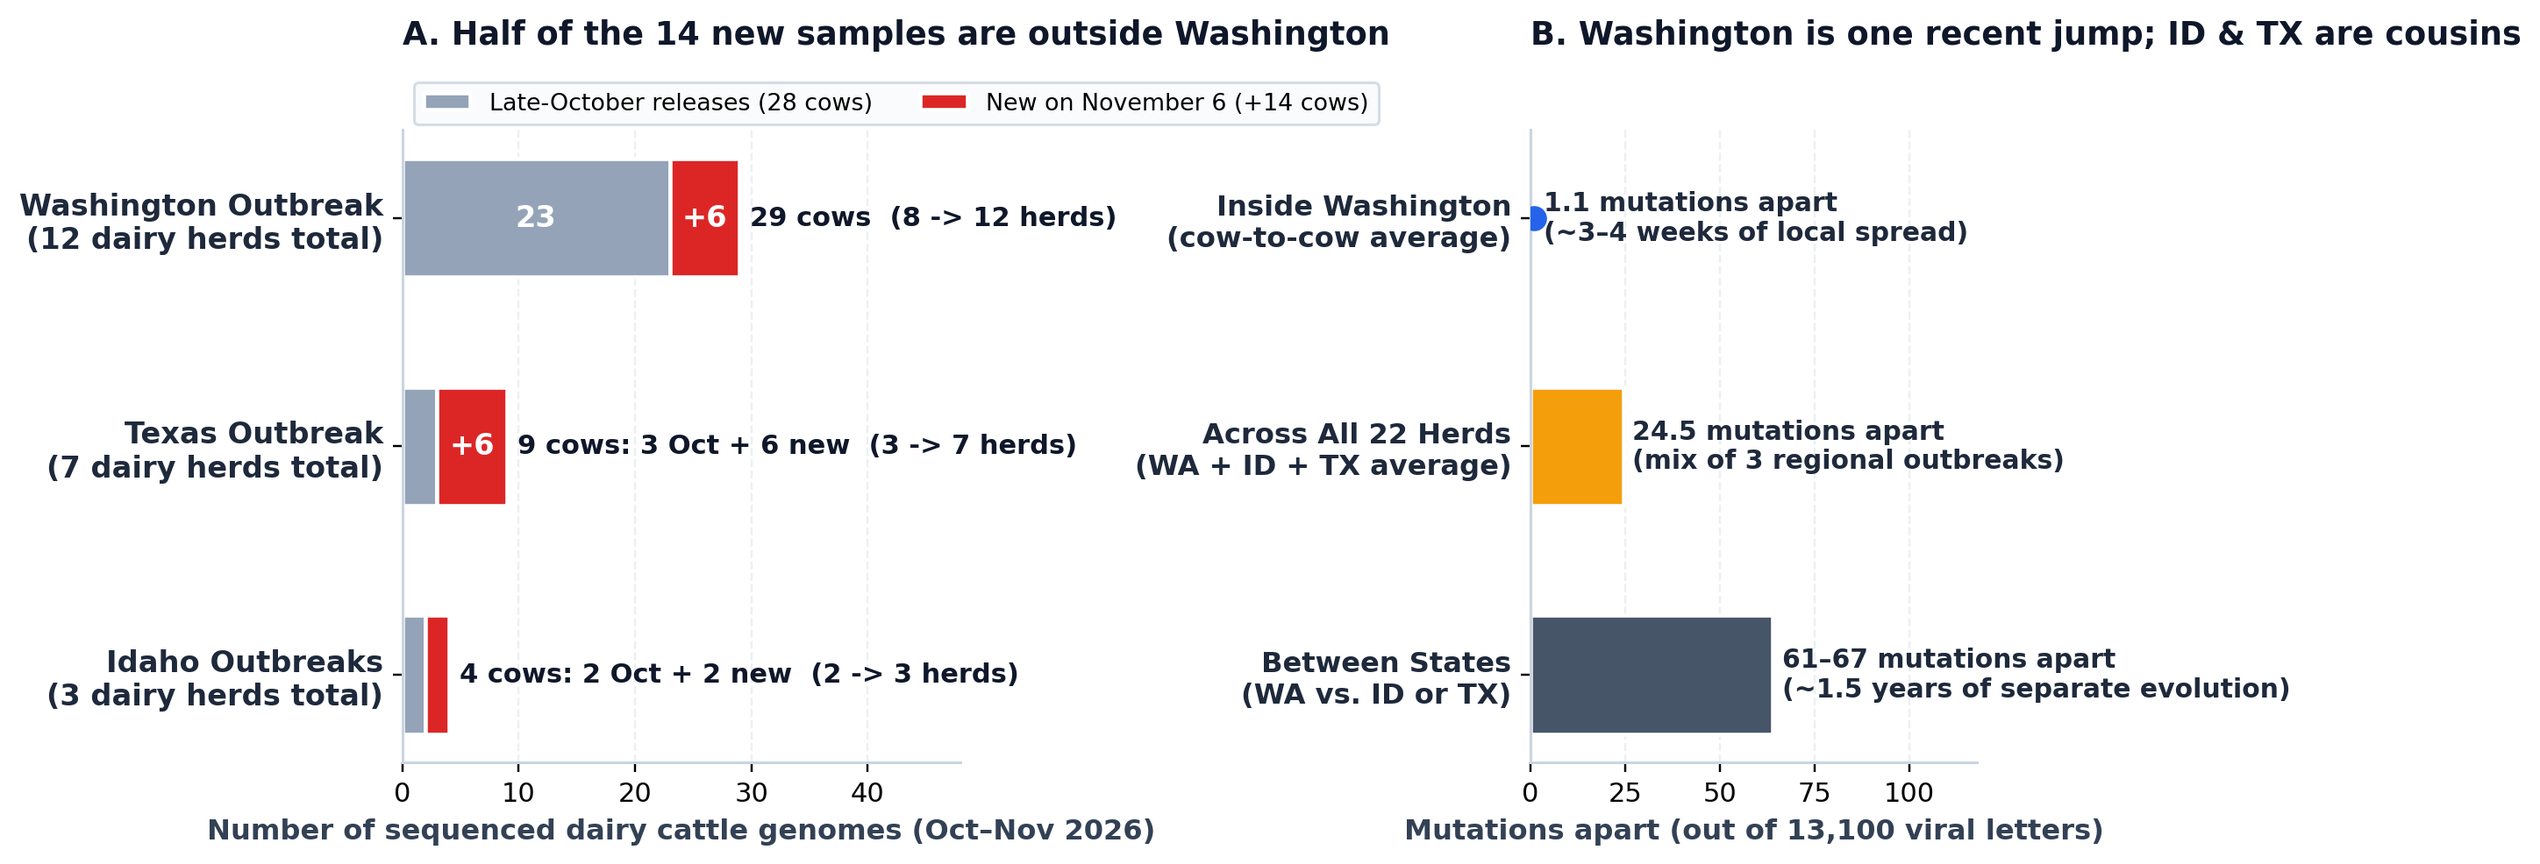
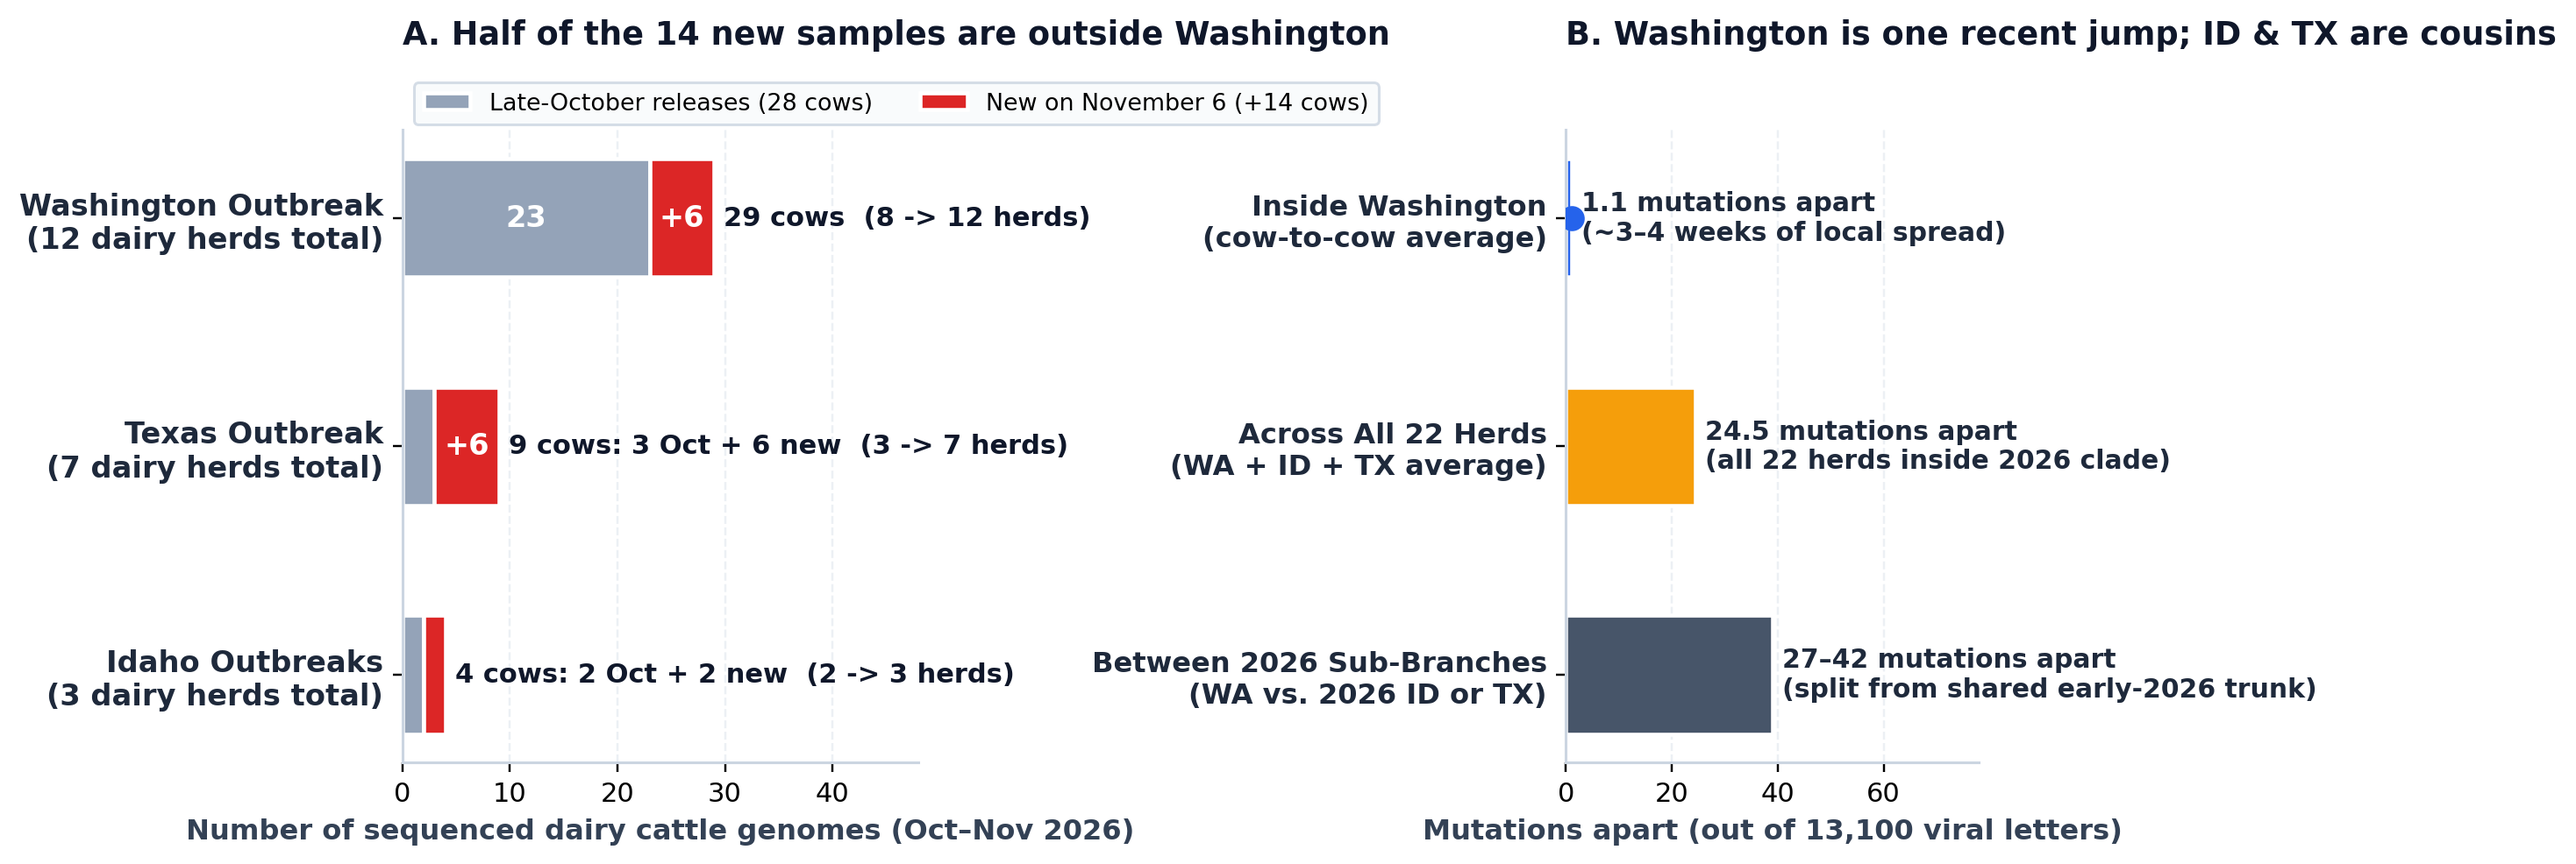
Clarify within-2026-clade SNP distances (27-42 SNPs across sister 2026 sub-branches from NODE_0002067)

diff --git a/blog/2026-11-06-h5n1-nov06-sra.html b/blog/2026-11-06-h5n1-nov06-sra.html
@@ -238,8 +238,8 @@
 
   <div class="takeaway-grid">
     <div class="takeaway-card">
-      <div class="num">1. Three Outbreaks</div>
-      <div class="desc"><strong>Half of the 14 new samples are outside Washington:</strong> 6 are from Washington, 6 are from Texas, and 2 are from Idaho. These three regional outbreaks are <strong>61–67 mutations apart</strong> (~1.5 years of separate evolution).</div>
+      <div class="num">1. Sister 2026 Sub-Branches</div>
+      <div class="desc"><strong>Half of the 14 new samples are outside Washington:</strong> All 42 fall genomes descend from a single early-2026 cattle ancestor (<code>NODE_0002067</code>), but split into separate 2026 sub-branches in Washington (+6), Texas (+6), and Idaho (+2) that are <strong>27–42 mutations apart</strong>.</div>
     </div>
     <div class="takeaway-card">
       <div class="num">2. 8 &rarr; 12 WA Herds</div>
@@ -266,11 +266,11 @@
   </ul>
 
   <figure>
-    <img src="images/blog_fig1_three_outbreaks_overview.png" alt="Simple two-panel bar chart showing where the 14 new November 6 H5N1 cattle samples land across Washington, Texas, and Idaho, and how many mutations separate cows within Washington versus between states.">
-    <figcaption><strong>Figure 1. Where the 14 new November 6 samples land.</strong> <strong>(A)</strong> Breakdown of the 42 Fall 2026 USDA dairy cattle genomes across the Washington, Texas, and Idaho outbreaks, comparing the late-October releases (grey, 28 cows) with the November 6 release (red, +14 cows). <strong>(B)</strong> Average genetic distance across the 13,100-letter viral genome: cows inside Washington differ by just 1.1 mutations on average (~3–4 weeks of local spread), whereas Washington, Idaho, and Texas viruses are 61 to 67 mutations apart (~1.5 years of separate evolution).</figcaption>
+    <img src="images/blog_fig1_three_outbreaks_overview.png" alt="Simple two-panel bar chart showing where the 14 new November 6 H5N1 cattle samples land across Washington, Texas, and Idaho, and how many mutations separate cows within Washington versus between the 2026 sub-branches.">
+    <figcaption><strong>Figure 1. Where the 14 new November 6 samples land inside the 2026 cattle clade.</strong> <strong>(A)</strong> Breakdown of the 42 Fall 2026 USDA dairy cattle genomes across the Washington, Texas, and Idaho 2026 sub-branches, comparing the late-October releases (grey, 28 cows) with the November 6 release (red, +14 cows). <strong>(B)</strong> Average genetic distance across the 13,100-letter viral genome: all 42 sequences share a common early-2026 ancestor (<code>NODE_0002067</code>), but cows inside Washington differ by just 1.1 mutations on average (~3–4 weeks of local spread), whereas the Washington, Idaho, and Texas 2026 sub-branches are 27 to 42 mutations apart (~6–9 months of divergence since early 2026).</figcaption>
   </figure>
 
-  <p>As <strong>Figure 1B</strong> shows, any two cows inside Washington differ by an average of just <strong>1.1 mutations</strong> across the entire 13,100-letter flu genome. By contrast, a Washington cow and an Idaho or Texas cow differ by <strong>61 to 67 mutations</strong>—meaning these three state outbreaks have been evolving separately since 2024 and are not spreading back and forth across state lines today.</p>
+  <p>As <strong>Figure 1B</strong> shows, all 42 Fall 2026 genomes belong to the same overarching 2026 cattle clade (descending from the early-2026 Idaho bottleneck ancestor <code>NODE_0002067</code>). Inside Washington, however, any two cows differ by an average of just <strong>1.1 mutations</strong> across the 13,100-letter genome, whereas a Washington cow and one of the 2026 Idaho or Texas sub-branch cows differ by <strong>27 to 42 mutations</strong>—meaning those sister 2026 sub-branches split off from the common 2026 trunk months ago rather than representing acute October/November spillover out of the Washington herds.</p>
 
   <h2>2. Inside Washington: 12 herds from a single recent jump</h2>
 

diff --git a/blog/2026-11-06-h5n1-nov06-sra-slides.html b/blog/2026-11-06-h5n1-nov06-sra-slides.html
@@ -139,7 +139,7 @@
             <li><strong>Idaho (+2 new):</strong> 4 cows across 3 herds.</li>
           </ul>
         </li>
-        <li>Cows inside Washington differ by just <strong>1.1 mutations on average</strong> (~3–4 weeks of local spread), whereas Washington, Idaho, and Texas viruses are <strong>61 to 67 mutations apart</strong> (~1.5 years of separate evolution).</li>
+        <li>Cows inside Washington differ by just <strong>1.1 mutations on average</strong> (~3–4 weeks of local spread), whereas the Washington, Idaho, and Texas 2026 sub-branches (all descending from shared early-2026 ancestor <code>NODE_0002067</code>) are <strong>27 to 42 mutations apart</strong> (~6–9 months of divergence inside the 2026 clade).</li>
       </ul>
       <div>
         <img src="images/blog_fig1_three_outbreaks_overview.png" alt="Slide 1 overview of the 3 outbreaks">
